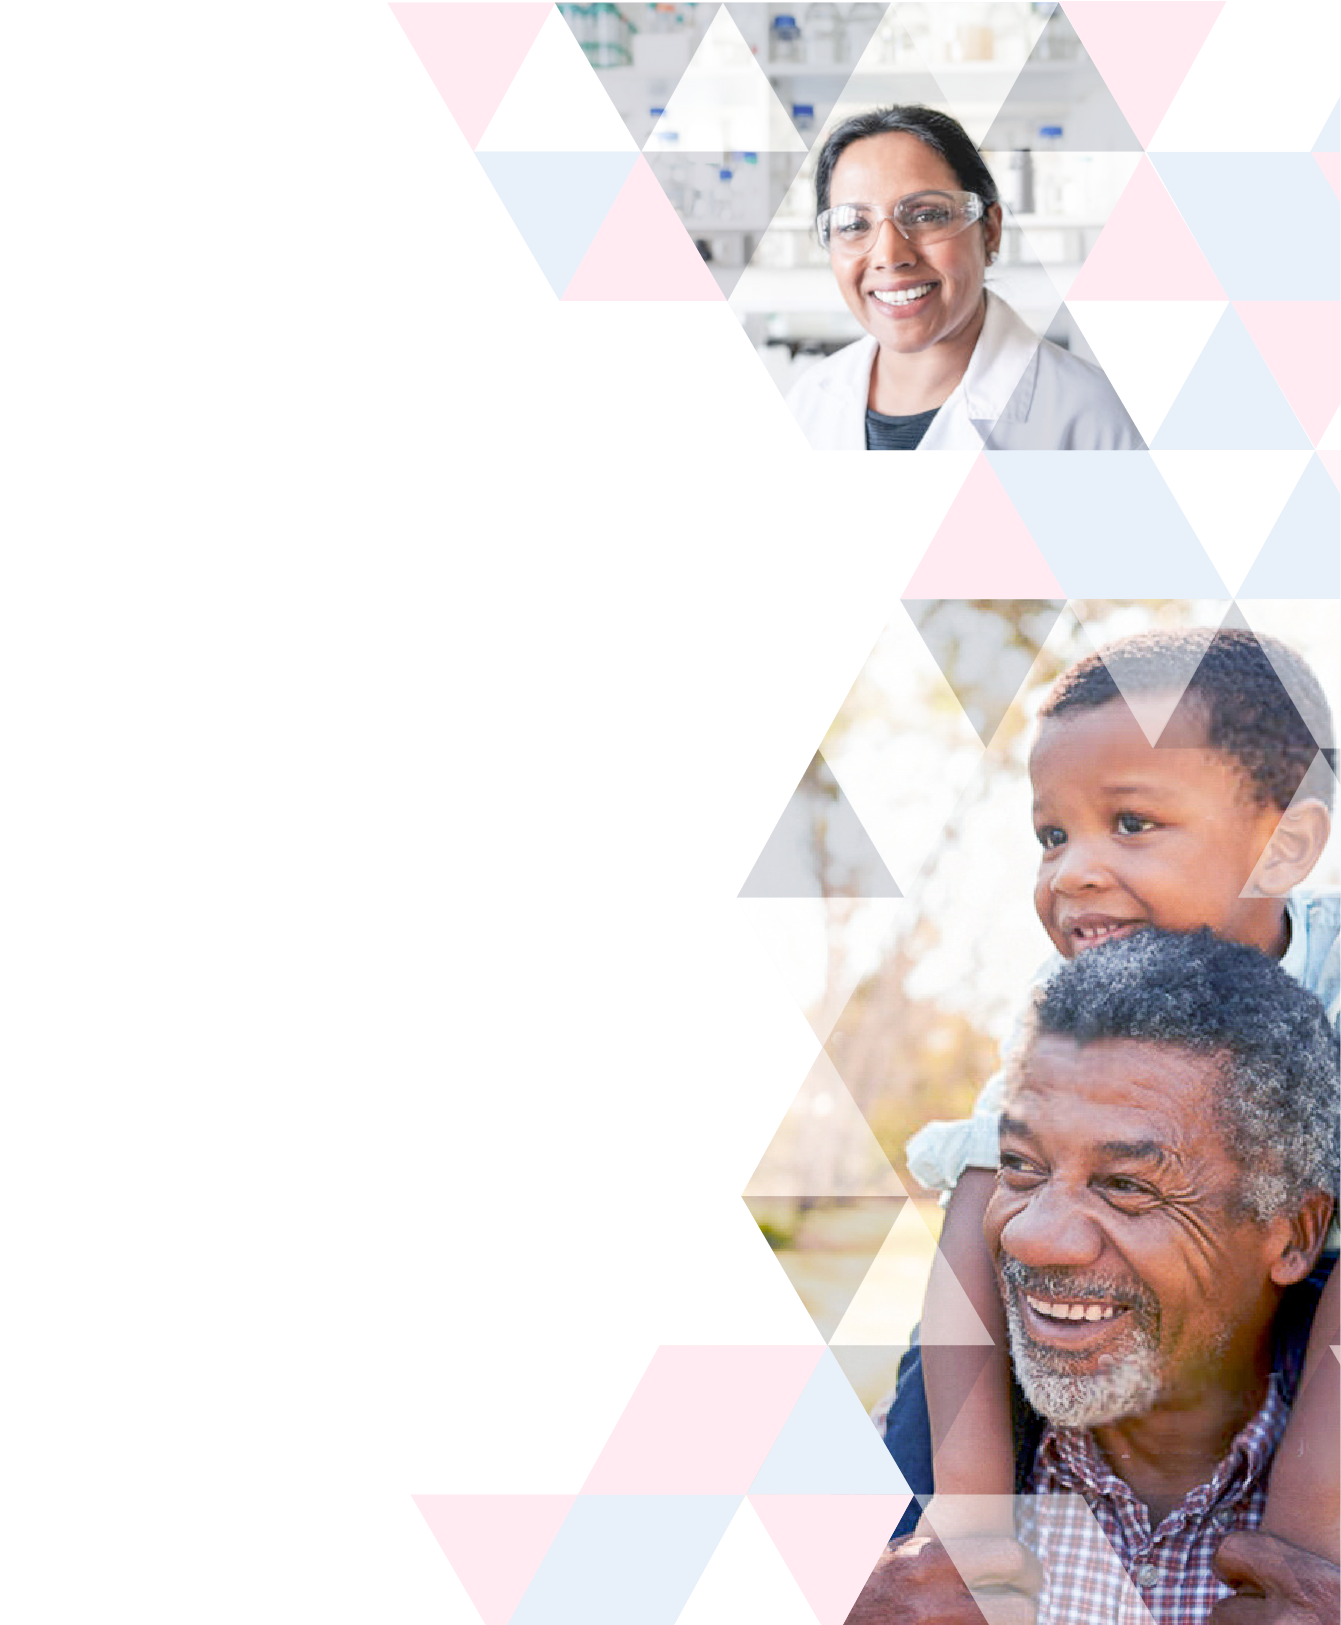
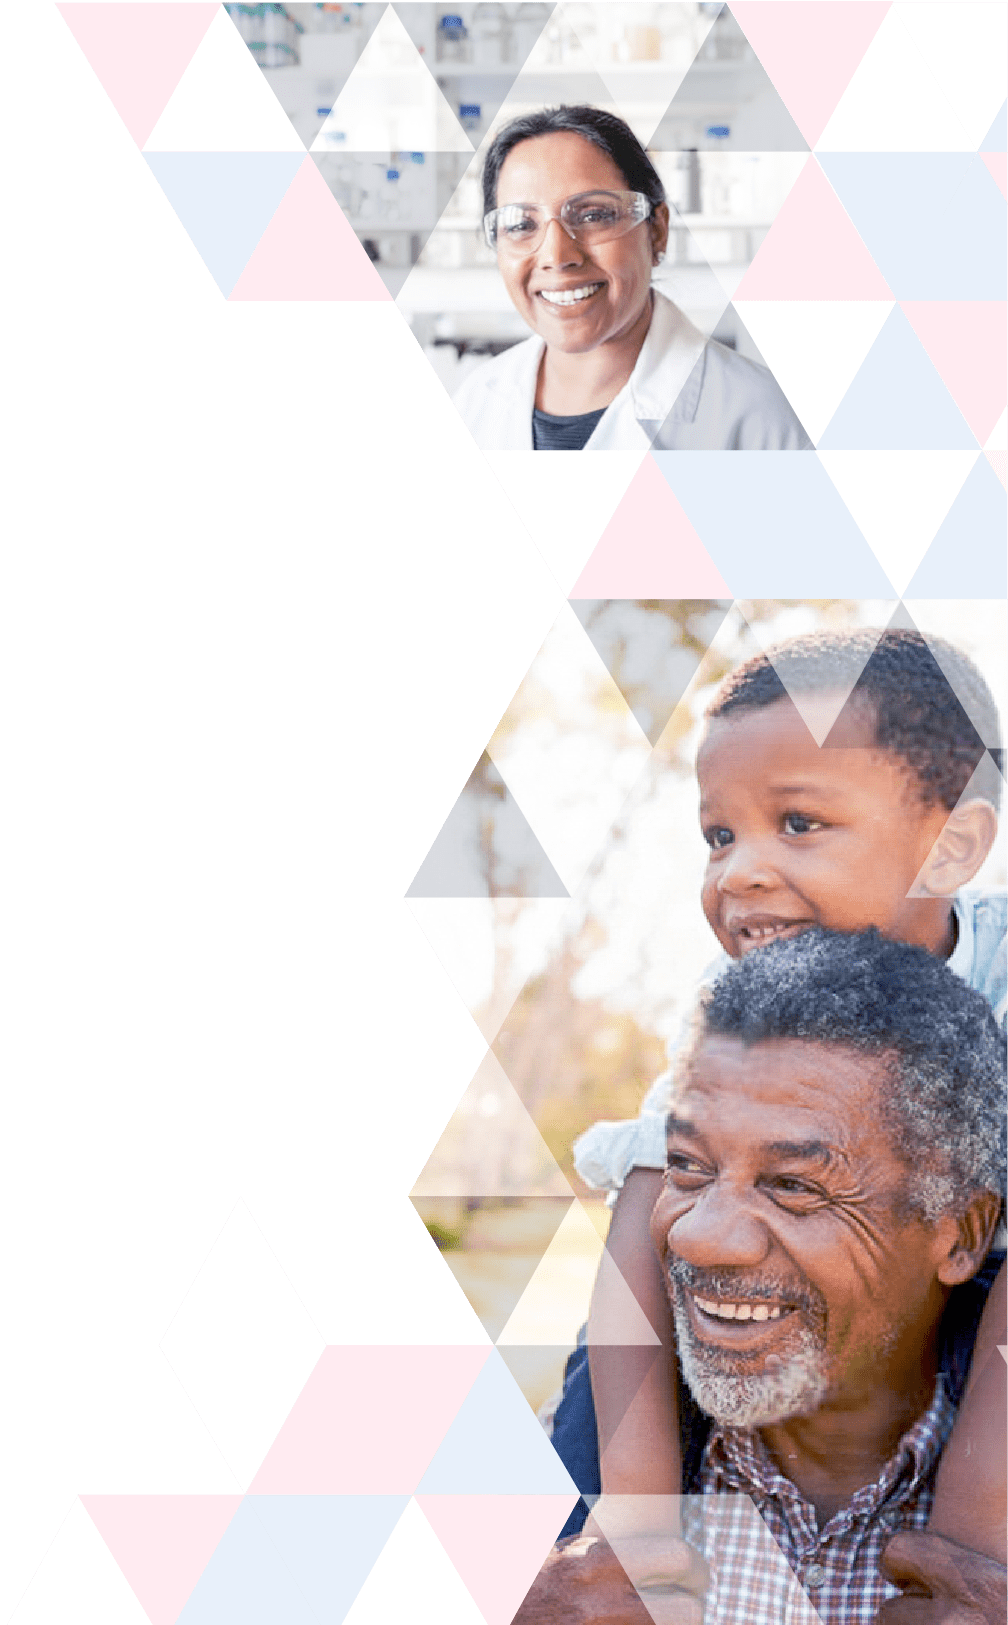
styles for Homepage

diff --git a/src/pages/HomePage.js b/src/pages/HomePage.js
@@ -1,6 +1,9 @@
 import React from 'react';
 import { Box, Container, Grid, Paper, Typography } from '@material-ui/core';
 import { makeStyles } from '@material-ui/core/styles'
+import { flexbox } from '@material-ui/system';
+
+import IconCardMedia from '../components/IconCardMedia/IconCardMedia'
 
 const useStyles = makeStyles( theme => ({
   hero: {
@@ -9,10 +12,112 @@ const useStyles = makeStyles( theme => ({
     backgroundRepeat: "no-repeat",
     backgroundPosition: "top right",
     backgroundSize: "auto 100%",
-    height: "700px"
+    height: "700px",
+    display: 'flex',
+    alignItems: 'center'
+
+  },
+  heroText: {
+    marginLeft: '12%',
+    width: '42%'
+  },
+  mainTitle: {
+    fontFamily: 'Montserrat, Helvetica, Arial, sans-serif',
+    fontWeight: 500,
+    fontSize: '62px',
+    lineHeight: '74px',
+    paragraphHeight: '30px',
+    letterSpacing: '-.6px',
   },
   bold: {
     fontWeight: 'bold'
+  },
+  missionStatement: {
+    display: 'flex',
+    alignItems: 'center',
+    justifyContent: 'center',
+    margin: '100px auto'
+  },
+  missionStatementText: {
+    width: '84%',
+    textAlign: 'center'
+  },
+  accentImage: {
+    display: "block",
+  },
+  infoBoxes: {
+    padding: 0,
+    '& $accentImage': {
+      height: '40vw',
+      maxHeight: '490px',
+      minHeight: '175px',
+      padding: 0,
+      backgroundImage: `url(/${process.env.PUBLIC_URL}assets/images/friends-and-family.jpg)`,
+      backgroundRepeat: "no-repeat",
+      backgroundPosition: "center 22%",
+      backgroundSize: "cover",
+      zIndex: -1
+    },
+    
+  },
+  infoBoxList: {
+    backgroundImage: theme.gradients.blue,
+    position: 'relative'
+  },
+  infoBoxOffset: {
+    position: 'relative',
+    top: `-${theme.spacing(9)}px`
+  },
+  infoBox: {
+    width: '72%',
+    margin: `${theme.spacing(6)}px auto`,
+    textAlign: 'center',
+  },
+  infoOffsetPaper: {
+    width: '84%',
+    margin: '0 auto',
+    '& $infoBox': {
+      width: '77.777%',
+      margin: '0 auto',
+      padding: theme.spacing(6,0),
+    }
+  },
+  howItWorks: {
+
+  },
+  howItWorksGrid: {
+    '& > div': {
+      textAlign: 'center'
+    }
+  },
+  howItWorksIcon: {
+    width: '100px',
+    height: '100px'
+  },
+  biobank: {
+    backgroundImage: theme.gradients.primaryDiagonal
+  },
+  volunteer: {
+    backgroundImage: theme.gradients.primaryDiagonal
+  },
+  volunteerText: {
+    width: '84%',
+    textAlign: 'center',
+    margin: `${theme.spacing(3)}px auto`
+  },
+  [theme.breakpoints.up('sm')]: {
+    missionStatementText: {
+      width: '54%'
+    },
+    infoOffsetPaper: {
+      width: '54%'
+    },
+    volunteerText: {
+      width: '54%'
+    },
+    infoBox: {
+      width: '42%'
+    }
   }
 }))
 
@@ -21,73 +126,86 @@ const HomePage = (props) => {
   return (
     <Box>
       <Container className={classes.hero}>
-        <Typography variant="h1" component="h1">The Cancer Moonshot Biobank</Typography>
-        <Typography variant="h2" component="h2">Help change the future of cancer treatment.</Typography>
+        <div className={classes.heroText}>
+          <Typography className={classes.mainTitle} component="h1">The Cancer Moonshot Biobank</Typography>
+          <Typography variant="h2" component="h2">Help change the future <br /> of cancer treatment.</Typography>
+        </div>
       </Container>
-      <Box>
-        <Typography>
+      <Container className={classes.missionStatement}>
+        <Typography className={classes.missionStatementText} component="div">
           The Cancer Moonshot Biobank is a 5-year initiative that aims to advance our understanding of cancer by engaging cancer patients in blood and tissue donations throughout the course of their treatment.
         </Typography>
-      </Box>
-      <Container>
-        <Paper>
-          <Typography variant="h2" component="h2">Patients</Typography>
-          <Typography>By participating, patients can help improve treatment options for their communities.</Typography>
-        </Paper>
       </Container>
-      <Box>
-        <Typography variant="h2" component="h2">Doctors</Typography>
-        <Typography>Partner with patient participants to make donated blood and tumor samples available for cancer research.</Typography>
-      </Box>
-      <Box>
-        <Typography variant="h2" component="h2">The Moonshot Biobank</Typography>
-        <Typography>Distributes donated blood and tumor samples to researchers.</Typography>
-      </Box>
-      <Box>
-        <Typography variant="h2" component="h2">Researchers</Typography>
-        <Typography>Study these samples to find new or improved cancer treatments.</Typography>
-      </Box>
-      <Box>
-        <Container>
-          <Typography variant="h2" component="h2">How it works</Typography>
-          <Grid container>
+      <Container className={classes.infoBoxes}>
+        <div className={classes.accentImage}></div>
+        <div className={classes.infoBoxList}>
+          <div className={classes.infoBoxOffset}>
+            <Paper className={classes.infoOffsetPaper}>
+              <Box className={classes.infoBox}>
+                <Typography variant="h1">Patients</Typography>
+                <Typography>By participating, patients can help improve treatment options for their communities.</Typography>
+              </Box>
+            </Paper>
+            <Box className={classes.infoBox}>
+              <Typography variant="h1">Doctors</Typography>
+              <Typography>Partner with patient participants to make donated blood and tumor samples available for cancer research.</Typography>
+            </Box>
+            <Box className={classes.infoBox}>
+              <Typography variant="h1">The Moonshot Biobank</Typography>
+              <Typography>Distributes donated blood and tumor samples to researchers.</Typography>
+            </Box>
+            <Box className={classes.infoBox}>
+              <Typography variant="h1">Researchers</Typography>
+              <Typography>Study these samples to find new or improved cancer treatments.</Typography>
+            </Box>
+          </div>
+        </div>
+      </Container>
+      <Container className={classes.howItWorks}>
+        <Box mt={4} mb={13}>
+          <Typography className={classes.infoBox} variant="h1" component="h2">How it works</Typography>
+          <Grid container className={classes.howItWorksGrid} spacing={3}>
             <Grid item xs={12} sm={6} md={3}>
-              <img src={`/${process.env.PUBLIC_URL}assets/icons/patients.svg`} />
+              <img className={classes.howItWorksIcon} src={`/${process.env.PUBLIC_URL}assets/icons/patients.svg`} />
               <Typography>A patient donates blood and tissue samples throughout their treatment, for up to 5 years.</Typography>
             </Grid>
             <Grid item xs={12} sm={6} md={3}>
-              <img src={`/${process.env.PUBLIC_URL}assets/icons/one-idea.svg`} />
+              <img className={classes.howItWorksIcon} src={`/${process.env.PUBLIC_URL}assets/icons/one-idea.svg`} />
               <Typography>Scientists develop new research ideas to advance their understanding of cancer.</Typography>
             </Grid>
             <Grid item xs={12} sm={6} md={3}>
-              <img src={`/${process.env.PUBLIC_URL}assets/icons/multiple-samples.svg`} />
+              <img className={classes.howItWorksIcon} src={`/${process.env.PUBLIC_URL}assets/icons/multiple-samples.svg`} />
               <Typography>Researchers test their idea on many different samples from the Biobank.</Typography>
             </Grid>
             <Grid item xs={12} sm={6} md={3}>
-              <img src={`/${process.env.PUBLIC_URL}assets/icons/breakthrough.svg`} />
+              <img className={classes.howItWorksIcon} src={`/${process.env.PUBLIC_URL}assets/icons/breakthrough.svg`} />
               <Typography>They work to find breakthroughs that improve cancer treatments and survival.</Typography>
             </Grid>
           </Grid>
-        </Container>
-        <Container>
-          <Typography variant="h2" component="h2">A diverse biobank works for all of us.</Typography>
-          <Grid container>
-            <Grid item xs={12} sm={6}>
+        </Box>
+      </Container>
+      <Container className={classes.biobank}>
+        <Box pt={4} pb={13}>
+          <Typography variant="h1" component="h2" className={classes.infoBox}>A diverse biobank works for all of us.</Typography>
+          <Grid container spacing={8} justify="center">
+            <Grid item xs={10} sm={5}>
               <Typography>Cancer treatments do not work the same way for everyone. A diverse biobank, with samples from many different populations of people, makes it easier for researchers to find treatments that work.</Typography>
               <Typography>We are working hard to ensure the diversity of this study matches the diversity of our country.</Typography>
             </Grid>
-            <Grid item xs={12} sm={6}>
+            <Grid item xs={10} sm={5}>
               <Typography className={classes.bold}>Progress is being made in Biobank diversity.</Typography>
               <Typography>Learn how other projects are using community outreach to increase participation in biobanking and research.</Typography>
             </Grid>
           </Grid>
-        </Container>
-        <Container>
-          <Typography variant="h2" component="h2">Will you help?</Typography>
-          <Grid container>
-            <Grid item xs={12} sm={6}>
+        </Box>
+      </Container>
+      <Container>
+        <Box pt={4} pb={13}>
+          <Typography variant="h1" component="h2" className={classes.infoBox}>Will you help?</Typography>
+          <Grid container spacing={8} justify="center">
+            <Grid item xs={10} sm={5}>
               <Typography className={classes.bold}>Eligible patients:</Typography>
-              <Typography>
+              <Typography component="div">
                 <ul>
                   <li>Have locally advanced or metastatic solid tumors and hematologic malignancies</li>
                   <li>Are receiving standard of care therapy (not experimental treatment)</li>
@@ -96,10 +214,10 @@ const HomePage = (props) => {
                 </ul>
               </Typography>
             </Grid>
-            <Grid item xs={12} sm={6}>
+            <Grid item xs={10} sm={5}>
               <Box>
               <Typography className={classes.bold}>We are currently seeking participants with these cancers:</Typography>
-              <Typography>
+              <Typography component="div">
                 <ul className={classes.boxList}>
                   <li>Colorectal cancer</li>
                   <li>Lung cancer</li>
@@ -116,12 +234,52 @@ const HomePage = (props) => {
               </Box>
             </Grid>
           </Grid>
-        </Container>
-        <Container>
-          <Typography variant="h2" component="h2">To volunteer,<br /> talk to your doctor.</Typography>
-          <Typography>If you can't join the Cancer Moonshot Biobank, consider making a difference by joining other projects at NIH or NCI.</Typography>
-        </Container>
-      </Box>
+        </Box>
+      </Container>
+      <Container className={classes.volunteer}>
+        <Box pt={4} pb={13}>
+          <Typography variant="h1" component="h2" className={classes.infoBox}>To volunteer,<br /> talk to your doctor.</Typography>
+          <Grid container spacing={3}>
+            <Grid item xs={12} sm={6} md={3}>
+              <IconCardMedia
+                title="What to expect when you join the Biobank"
+                link="learnmore"
+                linkText="Learn more"
+                image="hands.jpg"
+                imageTitle="worried hands"
+              />
+            </Grid>
+            <Grid item xs={12} sm={6} md={3}>
+              <IconCardMedia
+                title="Find participating hospitals"
+                link="hospitals"
+                linkText="Search now"
+                image="doctor-and-couple.jpg"
+                imageTitle="doctor speaking with couple"
+              />
+            </Grid>
+            <Grid item xs={12} sm={6} md={3}>
+              <IconCardMedia
+                title="We are protecting your privacy"
+                link="privacy"
+                linkText="Find out how"
+                image="security.jpg"
+                imageTitle="padlock icon over laptop"
+              />
+            </Grid>
+            <Grid item xs={12} sm={6} md={3}>
+              <IconCardMedia
+                title="Learn more about cancer research"
+                link="information"
+                linkText="Find information"
+                image="test-tubes.jpg"
+                imageTitle="test tubes"
+              />
+            </Grid>
+          </Grid>
+          <Typography className={classes.volunteerText}>If you can't join the Cancer Moonshot Biobank, consider making a difference by joining other projects at NIH or NCI.</Typography>
+        </Box>
+      </Container>
     </Box>
   )
 }

diff --git a/src/components/IconCardMedia/IconCardMedia.js b/src/components/IconCardMedia/IconCardMedia.js
@@ -1,0 +1,52 @@
+import React from 'react';
+import { Link } from '@reach/router'
+import { Button, Card, CardActionArea, CardActions, CardMedia, CardContent, Typography } from '@material-ui/core';
+import { makeStyles } from '@material-ui/core/styles'
+import { KeyboardArrowRight as KeyboardArrowRightIcon } from '@material-ui/icons'
+
+const useStyles = makeStyles( theme => ({
+  media: {
+    height: '146px',
+  },
+  cardTitle: {
+    fontWeight: 'bold'
+  },
+  cardActions: {
+    borderTop: `1px solid ${theme.palette.grey[300]}`,
+    padding: theme.spacing(2,0),
+    margin: theme.spacing(0,2)
+  }
+}))
+
+const Component = ({title, desc, image, imageTitle, link, linkText,}) => {
+  const classes = useStyles()
+
+  return (
+    <Card className={classes.card}>
+      <CardActionArea>
+        <CardMedia
+          className={classes.media}
+          image={`/${process.env.PUBLIC_URL}assets/images/${image}`}
+          title={imageTitle}
+        />
+        <CardContent>
+          <Typography className={classes.cardTitle} gutterBottom variant="body2">
+            {title}
+          </Typography>
+          {desc &&
+            <Typography variant="body2" color="textSecondary" component="p">
+              {desc}
+            </Typography>
+          }
+        </CardContent>
+      </CardActionArea>
+      <CardActions className={classes.cardActions}>
+        <Button size="small" color="primary" component={Link} to={link}>
+          {linkText} <KeyboardArrowRightIcon className={classes.linkIcon} />
+        </Button>
+      </CardActions>
+    </Card>
+  )
+}
+
+export default Component

diff --git a/src/components/region/Footer/Footer.js b/src/components/region/Footer/Footer.js
@@ -26,7 +26,7 @@ const Footer = () => {
   return (
     <footer className={classes.root}>
       <div className={classes.logo}><img src={`/${process.env.PUBLIC_URL}assets/images/nci-ppe-logo.svg`} /></div>
-      <Typography>
+      <Typography component="div">
         <Grid container>
           <Grid item>
             <a href="mailto:moonshotbiobank@nih.gov">moonshotbiobank@nih.gov</a>

diff --git a/src/theme/theme.js b/src/theme/theme.js
@@ -33,7 +33,9 @@ export const theme = createMuiTheme({
     }
   },
   gradients: {
-    primary: 'linear-gradient(#facfdc, #d2e2f7)'
+    primary: 'linear-gradient(#d2e2f7, #facfdc)',
+    blue: 'linear-gradient(#d2e2f7, transparent)',
+    primaryDiagonal: 'linear-gradient(315deg, #FFEBF1 0%, #F3EEF6 51%, #E8F0FA 100%)'
   },
   text: {
     primary: '#0d1c3c'
